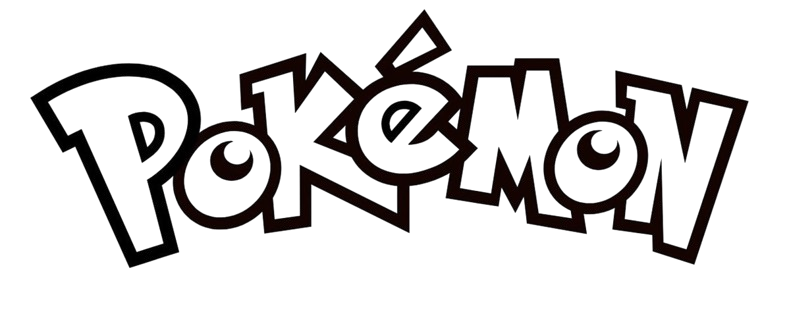
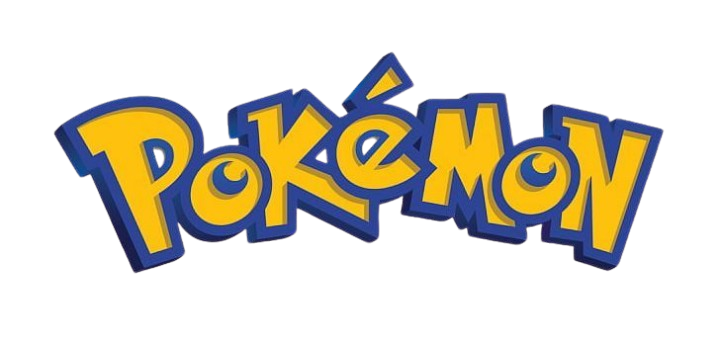
feat: change style

diff --git a/src/app/page-api/page.jsx b/src/app/page-api/page.jsx
@@ -7,13 +7,14 @@ import axios from "axios";
 import { toast } from "react-toastify";
 import { Pagination } from "antd";
 import PokemonCard from "@/components/PokemonCard";
+import Header from "@/components/Header";
 
 export default function PageAPI() {
     const [pokemons, setPokemons] = useState([]);
     const [loading, setLoading] = useState(false);
     const [currentPage, setCurrentPage] = useState(1);
-    const [pageSize, setPageSize] = useState(50);
-    const [searchTerm, setSearchTerm] = useState(""); // estado da busca
+    const [pageSize, setPageSize] = useState(8);
+    const [searchTerm, setSearchTerm] = useState(""); 
 
     const fetchPokemons = async () => {
         setLoading(true);
@@ -66,9 +67,7 @@ export default function PageAPI() {
 
     return (
         <div className={styles.container}>
-            <header className={styles.header}>
-                <Image src="/images/pokemon.png" alt="Logo" width={400} height={400} />
-            </header>
+            <Header/>
             <div className={styles.content}>
                 <div className={styles.textSection}>
                     <h1 className={styles.title}>⚡ Pokémon API</h1>
@@ -83,26 +82,16 @@ export default function PageAPI() {
                         projetos de análise.
                     </p>
                     <div className={styles.buttonSection}>
-                        <Link
-                            href="/"
-                            className={styles.button}
-                        >
-                            Criar Pokédex
-                        </Link>
-                        <Link
-                            href="/page-project"
-                            className={styles.button}
-                        >
-                            Sobre API
-                        </Link>
+                        <Link href="/" className={styles.button}>Criar Pokédex</Link>
+                        <Link href="/page-project" className={styles.button}>Sobre API</Link>
                     </div>
                 </div>
                 <div className={styles.imageSection}>
                     <Image
                         src="/images/pikachu.gif"
                         alt="Imagem Personagens de Pokemon"
-                        width={300}
-                        height={300}
+                        width={200}
+                        height={200}
                         className={styles.image}
                     />
                 </div>
@@ -121,7 +110,7 @@ export default function PageAPI() {
             ) : (
                 <>
                     <div className={styles.pokemons}>
-                        <div className={styles.pagination}>
+                        <div className={styles.searchContainer}>
                             <div className={styles.inputContainer}>
                                 <Image
                                     src="/images/pokeball.png"
@@ -141,15 +130,7 @@ export default function PageAPI() {
                                     }}
                                 />
                             </div>
-                            <Pagination
-                                total={filteredPokemons.length} // usa a lista filtrada
-                                pageSize={pageSize}
-                                current={currentPage}
-                                showSizeChanger={true}
-                                pageSizeOptions={["100", "200", "300", "400", "500", "600", "720"]}
-                                onChange={handlePageChange}
-                                onShowSizeChange={handlePageSizeChange}
-                            />
+                            
                         </div>
 
                         <div className={styles.cardsContainer}>
@@ -161,6 +142,17 @@ export default function PageAPI() {
                                 />
                             ))}
                         </div>
+                        <div className={styles.pagination}>
+                        <Pagination
+                                total={filteredPokemons.length} 
+                                pageSize={pageSize}
+                                current={currentPage}
+                                showSizeChanger={true}
+                                pageSizeOptions={["20", "30", "40", "50", "60", "70", "80", "90", "100"]}
+                                onChange={handlePageChange}
+                                onShowSizeChange={handlePageSizeChange}
+                            />
+                            </div>
                     </div>
                 </>
             )}

diff --git a/src/styles/PokemonCard.module.css b/src/styles/PokemonCard.module.css
@@ -1,69 +1,35 @@
-.normal {background: linear-gradient(180deg, #000000 40%, #A8A878 80%);}
-.fire {background: linear-gradient(180deg, #000000 40%, #F08030 80%);}
-.water {background: linear-gradient(180deg, #000000 40%, #6890F0 80%);}
-.electric {background: linear-gradient(180deg, #000000 40%, #F8D030 80%);}
-.grass {background: linear-gradient(180deg, #000000 40%, #78C850 80%);}
-.ice {background: linear-gradient(180deg, #000000 40%, #98D8D8 80%);}
-.fighting {background: linear-gradient(180deg, #000000 40%, #C03028 80%);}
-.poison {background: linear-gradient(180deg, #000000 40%, #A040A0 80%);}
-.ground {background: linear-gradient(180deg, #000000 40%, #E0C068 80%);}
-.flying {background: linear-gradient(180deg, #000000 40%, #A890F0 80%);}
-.psychic {background: linear-gradient(180deg, #000000 40%, #F85888 80%);}
-.bug {background: linear-gradient(180deg, #000000 40%, #A8B820 80%);}
-.rock {background: linear-gradient(180deg, #000000 40%, #B8A038 80%);}
-.ghost {background: linear-gradient(180deg, #000000 40%, #705898 80%);}
-.dark {background: linear-gradient(180deg, #000000 40%, #705848 80%);}
-.dragon {background: linear-gradient(180deg, #000000 40%, #7038F8 80%);}
-.steel {background: linear-gradient(180deg, #000000 40%, #B8B8D0 80%);}
-.fairy {background: linear-gradient(180deg, #000000 40%, #F0B6D1 80%);}
-
 .pokemonCard {
-    border-radius: 20px;
+    display: flex;
+    flex-direction: column;
+    align-items: center;
     padding: 1.5rem;
-    height: 22rem;;
+    height: auto;
     text-align: center;
+    justify-content: center;
+    background-color: #1e293b;
+    border-radius: 20px;
     transition: all 0.3s ease;
 }
 
 .pokemonCard:hover {
     transform: translateY(-10px);
-    border: none;
-    box-shadow: 10px 10px rgba(168, 168, 168, 0.671);
 }
 
 .cardContent {
     display: flex;
     flex-direction: column;
     align-items: center;
-    color:#ffffff;
+    color: rgb(226 232 240);
 }
 
 .pokemonName {
     font-family: "Press Start 2P", system-ui;
     font-size: 1.5rem;
-    margin-bottom: 1rem;
+    padding: 1rem;
     text-transform: capitalize;
-}
-
-.pokemonInfo {
-    font-family: "Fredoka", sans-serif;
-    font-size: 1rem;
 }
 
 .pokemonImage {
     width: 150px;
     height: 150px;
-}
-
-.buttonContainer {
-    margin-top: 1rem;
-}
-
-.detailsButton {
-    font-family: "Press Start 2P", system-ui;
-    font-size: 0.8rem;
-    border: 1px solid #ffffff;
-    color: #ffffff;
-    padding: 6px 18px;
-    border-radius: 5px;
 }

diff --git a/src/app/page-api/[id]/[id].module.css b/src/app/page-api/[id]/[id].module.css
@@ -1,24 +1,24 @@
 @import url('https://fonts.googleapis.com/css2?family=Fredoka:wght@300..700&family=Press+Start+2P&display=swap');
 @import url('https://fonts.googleapis.com/css2?family=Press+Start+2P&display=swap');
 
-.normal {background: rgba(168, 168, 120, 0.5);}
-.fire {background: rgba(240, 128, 48, 0.5);}
-.water {background: rgba(104, 144, 240, 0.5);}
-.electric {background: rgba(248, 208, 48, 0.5);}
-.grass {background: rgba(120, 200, 80, 0.5);}
-.ice {background: rgba(152, 216, 216, 0.5);}
-.fighting {background: rgba(192, 48, 40, 0.5);}
-.poison {background: rgba(160, 64, 160, 0.5);}
-.ground {background: rgba(224, 192, 104, 0.5);}
-.flying {background: rgba(168, 144, 240, 0.5);}
-.psychic {background: rgba(248, 88, 136, 0.5);}
-.bug {background: rgba(168, 184, 32, 0.5);}
-.rock {background: rgba(184, 160, 56, 0.5);}
-.ghost {background: rgba(112, 88, 152, 0.5);}
-.dark {background: rgba(112, 88, 72, 0.5);}
-.dragon {background: rgba(112, 56, 248, 0.5);}
-.steel {background: rgba(184, 184, 208, 0.5);}
-.fairy {background: rgba(240, 182, 209, 0.5);}
+.normal { background: linear-gradient(180deg, #6B6B3A 40%, #A8A878 80%); }
+.fire { background: linear-gradient(180deg, #8B3E16 40%, #F08030 80%); }
+.water { background: linear-gradient(180deg, #335FBF 40%, #6890F0 80%); }
+.electric { background: linear-gradient(180deg, #B48A16 40%, #F8D030 80%); }
+.grass { background: linear-gradient(180deg, #4E8B2A 40%, #78C850 80%); }
+.ice { background: linear-gradient(180deg, #5AA9A9 40%, #98D8D8 80%); }
+.fighting { background: linear-gradient(180deg, #701614 40%, #C03028 80%); }
+.poison { background: linear-gradient(180deg, #6E2E6E 40%, #A040A0 80%); }
+.ground { background: linear-gradient(180deg, #B08A30 40%, #E0C068 80%); }
+.flying { background: linear-gradient(180deg, #6B5FCF 40%, #A890F0 80%); }
+.psychic { background: linear-gradient(180deg, #B63058 40%, #F85888 80%); }
+.bug { background: linear-gradient(180deg, #6B7B12 40%, #A8B820 80%); }
+.rock { background: linear-gradient(180deg, #7B6B20 40%, #B8A038 80%); }
+.ghost { background: linear-gradient(180deg, #4A3770 40%, #705898 80%); }
+.dark { background: linear-gradient(180deg, #3F2B2A 40%, #705848 80%); }
+.dragon { background: linear-gradient(180deg, #4410C8 40%, #7038F8 80%); }
+.steel { background: linear-gradient(180deg, #707088 40%, #B8B8D0 80%); }
+.fairy { background: linear-gradient(180deg, #A06A8C 40%, #F0B6D1 80%); }
 
 .container {
     display: flex;

diff --git a/src/app/page-api/api.module.css b/src/app/page-api/api.module.css
@@ -4,15 +4,11 @@
 .container {
     display: flex;
     flex-direction: column;
-}
-
-.header {
-    display: flex;
-    padding: 20px;
-    justify-content: center;
+    background-color: #e1e7ef;
 }
 
 .content {
+    margin-top: 12rem;
     display: flex;
     align-items: center;
     justify-content: center;
@@ -94,20 +90,11 @@
     flex-direction: column;
     align-items: center;
     justify-content: center;
-    background: linear-gradient(180deg,
-            #fdfdfd 0%,
-            #a0a0a0 10%,
-            #808080 20%,
-            #606060 30%,
-            #505050 40%,
-            #404040 60%,
-            #000000 100%);
 }
 
 .pagination {
     display: flex;
     justify-content: center;
-    align-items: center;
     margin-top: 3rem;
     margin-bottom: 3rem;;
 }
@@ -137,12 +124,21 @@
     font-size: 12px;
 }
 
+.searchContainer {
+    margin-bottom: 1.5rem;
+    padding: 0.5rem 1rem;
+    border-radius: 25px;
+    display: flex;
+    align-items: center;
+    gap: 0.5rem;
+}
+
 @media (min-width: 1024px) {
 .cardsContainer {
     width: 80%;
 }
 .content {
-    gap: 4rem;
+    gap: 8rem;
 }
 .image {
     width: 18rem;

diff --git a/src/components/PokemonCard.jsx b/src/components/PokemonCard.jsx
@@ -54,16 +54,7 @@ export default function pokemonCard ({ pokemon, type }) {
                     alt={pokemon.name}
                     className={styles.pokemonImage}
                 />
-                <h3 className={styles.pokemonName}>{pokemon.name}</h3>
-                <p className={styles.pokemonInfo}>Altura: {pokemon.height / 10}m</p>
-                <p className={styles.pokemonInfo}>
-                    Tipo: {pokemon.types.map((t) => t.type.name).join(", ")}
-                </p>
-            </div>
-            <div className={styles.buttonContainer}>
-                <Link href={`/page-api/${pokemon.id}`} className={styles.detailsButton}>
-                    Ver Detalhes
-                </Link>
+                <Link href={`/page-api/${pokemon.id}`} className={styles.pokemonName}>{pokemon.name}</Link>
             </div>
         </div>
     );

diff --git a/src/components/Header.jsx b/src/components/Header.jsx
@@ -1,0 +1,11 @@
+import React from "react";
+import Image from "next/image";
+import styles from "../styles/Header.module.css";
+
+export default function Header() {
+    return (
+        <header className={styles.header}>
+                <Image src="/images/logo.png" alt="Logo" width={400} height={400} />
+            </header>
+    );
+}

diff --git a/src/styles/Header.module.css b/src/styles/Header.module.css
@@ -1,0 +1,12 @@
+.header {
+    display: flex;
+    width: 100%;
+    justify-content: center;
+    height: 10rem;
+    backdrop-filter: blur(10px);
+    border-radius: 1.5rem;
+    border: 2px solid rgb(226 232 240);
+    justify-content: center;
+    margin-top: 2rem;
+    position: fixed;
+}
